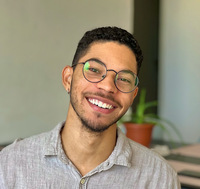
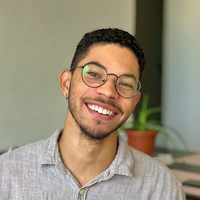
Fixing the layout of committe page; Fixing images size

diff --git a/committee.html b/committee.html
@@ -83,6 +83,8 @@
 
             <div class="team-six">
                 <div class="row">
+                    <div class="col-md-2">
+                    </div>
                     <div class="col-md-4 col-sm-6">
                         <!-- Team Member -->
                         <div class="team-member-start">
@@ -106,16 +108,7 @@
 
                         </div>
                     </div>
-                    <div class="col-md-4 col-sm-6">
-                        <!-- Team Member -->
-                        <div class="team-member">
-                            <!-- Image -->
-                            <img class="img-responsive" src="img/sscalabrino.png" alt="" style="padding-left: 25%;">
-                            <!-- Name -->
-                            <h4 style="padding-left: 25%;"><a href="https://dibt.unimol.it/staff/sscalabrino" target="_blank">Simone Scalabrino</a></h4>
-                            <span class="deg" style="padding-left: 25%;">University of Molise</span><br/>
-                            <span class="deg" style="padding-left: 25%;"><em>Italy</em></span>
-                        </div>
+                    <div class="col-md-2">
                     </div>
                 </div>
             </div>
@@ -128,12 +121,25 @@
                         <!-- Team Member -->
                         <div class="team-member-start">
                             <!-- Image -->
+                            <img class="img-responsive" src="img/sscalabrino.png" alt="" style="padding-left: 25%;">
+                            <!-- Name -->
+                            <h4 style="padding-left: 25%;"><a href="https://dibt.unimol.it/staff/sscalabrino" target="_blank">Simone Scalabrino</a></h4>
+                            <span class="deg" style="padding-left: 25%;">University of Molise</span><br/>
+                            <span class="deg" style="padding-left: 25%;"><em>Italy</em></span>
+                        </div>
+                    </div>
+                    <div class="col-md-4 col-sm-6">
+                        <!-- Team Member -->
+                        <div class="team-member-start">
+                            <!-- Image -->
                             <img class="img-responsive" src="img/marceloma.png" alt="" style="padding-left: 25%;">
                             <!-- Name -->
                             <h4 style="padding-left: 25%;"><a href="">Marcelo Maia</a></h4>
                             <span class="deg" style="padding-left: 25%;">Federal University of Uberlândia</span><br/>
                             <span class="deg" style="padding-left: 25%;"><em>Brazil</em></span>
                         </div>
+                    </div>
+                    <div class="col-md-2">
                     </div>
                 </div>
             </div>
